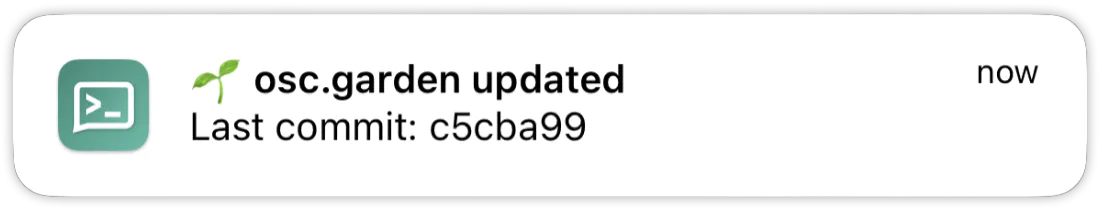
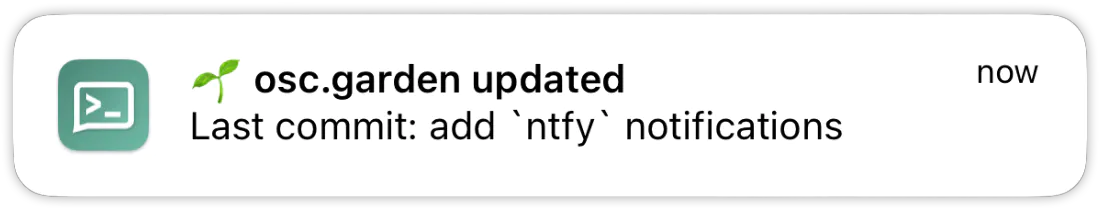
use commit message instead of commit hash for ntfy success

diff --git a/content/blog/updating-site-with-webhook.ca.md b/content/blog/updating-site-with-webhook.ca.md
@@ -1,7 +1,7 @@
 +++
 title = "Automatitzant l'actualització de la meva web amb un webhook"
 date = 2023-08-28
-updated = 2023-09-02
+updated = 2023-09-03
 
 [taxonomies]
 tags = ["aprenentatge del dia", "Zola"]
@@ -278,8 +278,8 @@ trap_cleanup() {
     echo "Eliminant directori temporal $temp_dir"
     rm -rf "$temp_dir"
     if [ "$1" == "success" ]; then
-        hash=$(git rev-parse --short HEAD)
-        send_notification "seedling" "osc.garden actualitzat" "Últim commit: $hash"
+        last_commit_msg=$(git log -1 --pretty=%B)
+        send_notification "seedling" "osc.garden actualitzat" "Últim commit: $last_commit_msg"
         echo "osc.garden actualitzat."
     fi
 }

diff --git a/content/blog/updating-site-with-webhook.es.md b/content/blog/updating-site-with-webhook.es.md
@@ -1,7 +1,7 @@
 +++
 title = "Automatizando la actualización de mi web con un webhook"
 date = 2023-08-28
-updated = 2023-09-02
+updated = 2023-09-03
 
 [taxonomies]
 tags = ["aprendizaje del día", "Zola"]
@@ -278,8 +278,8 @@ trap_cleanup() {
     echo "Eliminando directorio temporal $temp_dir"
     rm -rf "$temp_dir"
     if [ "$1" == "success" ]; then
-        hash=$(git rev-parse --short HEAD)
-        send_notification "seedling" "osc.garden actualizado" "Último commit: $hash"
+        last_commit_msg=$(git log -1 --pretty=%B)
+        send_notification "seedling" "osc.garden actualizado" "Último commit: $last_commit_msg"
         echo "osc.garden actualizado."
     fi
 }

diff --git a/content/blog/updating-site-with-webhook.md b/content/blog/updating-site-with-webhook.md
@@ -1,7 +1,7 @@
 +++
 title = "Automatically Updating My Zola Site Using a Webhook"
 date = 2023-08-28
-updated = 2023-09-02
+updated = 2023-09-03
 
 [taxonomies]
 tags = ["TIL", "Zola"]
@@ -278,8 +278,8 @@ trap_cleanup() {
     echo "Removing temporary directory $temp_dir"
     rm -rf "$temp_dir"
     if [ "$1" == "success" ]; then
-        hash=$(git rev-parse --short HEAD)
-        send_notification "seedling" "osc.garden updated" "Last commit: $hash"
+        last_commit_msg=$(git log -1 --pretty=%B)
+        send_notification "seedling" "osc.garden updated" "Last commit: $last_commit_msg"
         echo "osc.garden updated."
     fi
 }
